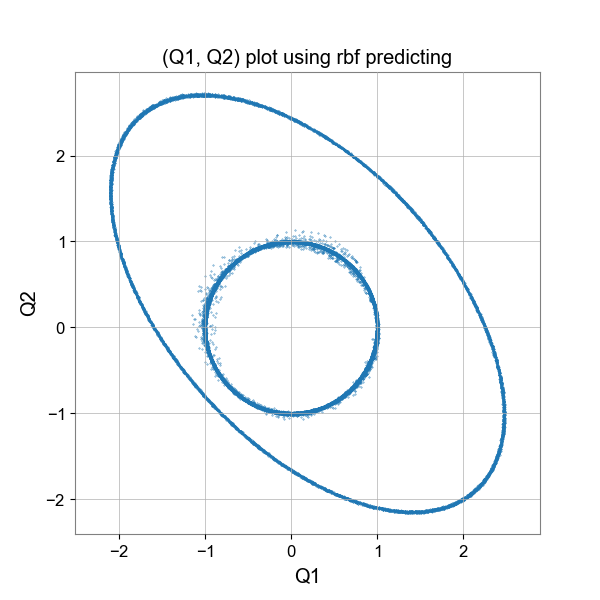
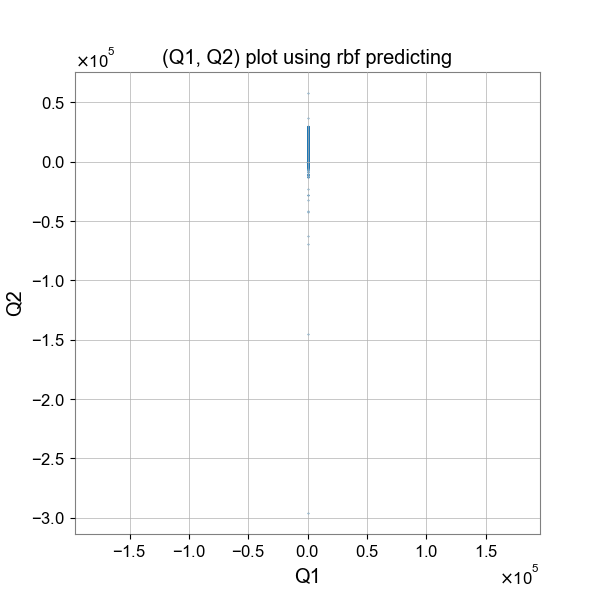
Massive (working) update on the predict parameters file
Made the window size adjustable, as well as the amount of data points ('block size') that are being used for the plot. I also improved the aesthetics of the plot a bit, and I made reduced the running time by a tiny amount.

diff --git a/Data_Analysis_Part_2/predict_parameters_rbf.py b/Data_Analysis_Part_2/predict_parameters_rbf.py
@@ -14,6 +14,12 @@ from ellipse_parameters import *
 
 # importing the HoQI data, and the Q1 and Q2 lists
 HoQIs, Q1, Q2 = np.load("Data_Analysis_Part_1\HoQI_fitted_six_vct_list.npy"), np.load("Data_Analysis_Part_1\\3xQ1.npy"), np.load("Data_Analysis_Part_1\\3xQ2.npy")
+block_size = 100000 # the amount of data points being used for the plot
+HoQIs_block, Q1_block, Q2_block = HoQIs[0:block_size], Q1[0:block_size], Q2[0:block_size]
+
+# window_size = 500 # use for 1x and 2x
+window_size = 210 # use for 3x
+# window_size = 250 # use for 1z, 2z and 3z
 
 # the transformation matrix for HoQI 1x
 matrix_1x = np.array([
@@ -51,42 +57,54 @@ def orthogonal_position_and_parameter(HoQIs, matrix, param):
     return np.hstack((vectors, param[:, None]))
 
 chunk_size = 10000
-n_chunks = len(Q1) / chunk_size 
+n_chunks = block_size / chunk_size 
 lag = 0
+
+Q1_chunk_0 = []
+Q2_chunk_0 = []
 
 # introducing our transformed Q lists
 Q1_transformed_list = []
 Q2_transformed_list = []
 
 # we are going to make a separate rbf function for each chunk, for each individual ellipse parameter
-rbf_x0_list, rbf_y0_list, rbf_a_list, rbf_b_list, rbf_theta_list = [], [], [], [], []
+# rbf_x0_list, rbf_y0_list, rbf_a_list, rbf_b_list, rbf_theta_list = [], [], [], [], []
 
 for i in range(int(n_chunks)): # for loop for each chunk individually
-    # t0 = time.time()
+    t0 = time.time()
 
     # the start and end of each chunk (the start is included; the end is not)
     start, end = i * chunk_size + lag, (i + 1) * chunk_size + lag
 
     # lag = 0, dus voor de window 0 t/m 99 gebruiken we tijdstip 0, dus eindigt een chunk bij tijdstip (chunk_size - window_size + 1) ipv (chunk_size) --> gooi de laatste (window_size - 1) termen weg
-    HoQIs_chunk = HoQIs[start:end-99]
+    HoQIs_chunk = HoQIs_block[start:end-(window_size - 1)]
 
     # berekent voor elke HoQI-vector de positie in het orthogonale vlak (in de huidige chunk)
     orthogonal_position = HoQIs_chunk @ matrix_3x.T
 
     # the transformation of the previous Q1 and Q2:
-    if i > 0: # i > 0, omdat er voor de eerste chunk nog geen vorige chunk is, dus nog geen rbf op basis waarvan de parameters voorspeld kunnen worden
-        x0_predicted = rbf_x0_list[i-1](orthogonal_position)
-        y0_predicted = rbf_y0_list[i-1](orthogonal_position)
-        a_predicted = rbf_a_list[i-1](orthogonal_position)
-        b_predicted = rbf_b_list[i-1](orthogonal_position)
-        theta_predicted = rbf_theta_list[i-1](orthogonal_position)
+    if i > 0: # i > 0, omdat er voor de eerste ('nulde') chunk nog geen vorige chunk is, dus nog geen rbf op basis waarvan de parameters voorspeld kunnen worden
+        x0_predicted = rbf_x0(orthogonal_position)
+        y0_predicted = rbf_y0(orthogonal_position)
+        a_predicted = rbf_a(orthogonal_position)
+        b_predicted = rbf_b(orthogonal_position)
+        theta_predicted = rbf_theta(orthogonal_position)
+
+        # x0_predicted = rbf_x0_list[i-1](orthogonal_position)
+        # y0_predicted = rbf_y0_list[i-1](orthogonal_position)
+        # a_predicted = rbf_a_list[i-1](orthogonal_position)
+        # b_predicted = rbf_b_list[i-1](orthogonal_position)
+        # theta_predicted = rbf_theta_list[i-1](orthogonal_position)
 
         # transforming time
-        Q1_centered = Q1[start:end-99] - x0_predicted
-        Q2_centered = Q2[start:end-99] - y0_predicted
+        Q1_centered = Q1_block[start:end-(window_size - 1)] - x0_predicted
+        Q2_centered = Q2_block[start:end-(window_size - 1)] - y0_predicted
 
         Q1_t = (np.cos(theta_predicted) * Q1_centered + np.sin(theta_predicted) * Q2_centered) / a_predicted
         Q2_t = (-np.sin(theta_predicted) * Q1_centered + np.cos(theta_predicted) * Q2_centered) / b_predicted
+
+        Q1_transformed_list.append(Q1_t)
+        Q2_transformed_list.append(Q2_t)
 
         # print the range in which the predicted parameters values fall
         # print(f"a_predicted range: {a_predicted.min():.3f} - {a_predicted.max():.3f}")
@@ -95,18 +113,18 @@ for i in range(int(n_chunks)): # for loop for each chunk individually
         # print(f"y0_predicted range: {y0_predicted.min():.3f} - {y0_predicted.max():.3f}")
         # print(f"theta_predicted range: {theta_predicted.min():.3f} - {theta_predicted.max():.3f}")
     else: # for chunk 0 (this causes the ellipse in the plot)
-        Q1_t = Q1[start:end-99]
-        Q2_t = Q2[start:end-99]
+        Q1_nt = Q1_block[start:end-(window_size - 1)]
+        Q2_nt = Q2_block[start:end-(window_size - 1)]
 
-    Q1_transformed_list.append(Q1_t)
-    Q2_transformed_list.append(Q2_t)
-
-    # t1 = time.time()
+        Q1_chunk_0.append(Q1_nt)
+        Q2_chunk_0.append(Q2_nt)
+ 
+    t1 = time.time()
 
     # for each window of the relevant chunk, the five ellipse parameters are calculated, which results in a (chunk_size - window_size + 1)x5 matrix
-    params = parameters_timeseries(Q1[start:end], Q2[start:end], window_size=100, step_size=1)
+    params = parameters_timeseries(Q1_block[start:end], Q2_block[start:end], window_size=window_size, step_size=1)
 
-    # t2 = time.time()
+    t2 = time.time()
 
     # elke ellipsparameter correspondeert met een bepaalde kolom uit 'params'
     x0, y0, a, b, theta = params[:,0], params[:,1], params[:,2], params[:,3], params[:,4]
@@ -116,7 +134,7 @@ for i in range(int(n_chunks)): # for loop for each chunk individually
     # define a 'bad point', and print the corresponding amount
     # print(f"amount of bad points (a): {(a > 5).sum()} van {len(a)}")
 
-    # !!! A LINEAR KERNEL REALLY DOES. NOT. WORK.
+    # thin plate spline kernel for an optimal fit 
     # neighbors: rbf only uses the closest 100 points in the orthogonal plane to predict the corresponding value of the assosoiated ellipse parameter; this in order to reduce running time
     # an rbf (interpolating function) is trained for each individual ellipse parameter
     rbf_x0 = RBFInterpolator(orthogonal_position, x0, kernel="thin_plate_spline", smoothing=0.1, neighbors=100)
@@ -126,31 +144,36 @@ for i in range(int(n_chunks)): # for loop for each chunk individually
     rbf_theta = RBFInterpolator(orthogonal_position, theta, kernel="thin_plate_spline", smoothing=0.1, neighbors=100)
 
     # the rbf is added to the associated list of rbf's, so that each chunk can be transformed with its own (or better said: the previous) chunk
-    rbf_x0_list.append(rbf_x0)
-    rbf_y0_list.append(rbf_y0)
-    rbf_a_list.append(rbf_a)
-    rbf_b_list.append(rbf_b)
-    rbf_theta_list.append(rbf_theta)
+    # rbf_x0_list.append(rbf_x0)
+    # rbf_y0_list.append(rbf_y0)
+    # rbf_a_list.append(rbf_a)
+    # rbf_b_list.append(rbf_b)
+    # rbf_theta_list.append(rbf_theta)
 
-    # t3 = time.time()
+    t3 = time.time()
 
-    # print(f"Chunk {i}: overig={t1-t0:.2f}s; parameters_timeseries={t2-t1:.2f}s; RBF={t3-t2:.2f}s.")
+    print(f"Chunk {i}: other={t1-t0:.2f}s; parameters_timeseries={t2-t1:.2f}s; RBF={t3-t2:.2f}s.")
 
     # if i == 3:
     #     break
 
 # arrays --> lists
-Q1_plot = np.concatenate(Q1_transformed_list)
-Q2_plot = np.concatenate(Q2_transformed_list)
+Q1_nt_plot = np.concatenate(Q1_chunk_0)
+Q2_nt_plot = np.concatenate(Q2_chunk_0)
+
+Q1_t_plot = np.concatenate(Q1_transformed_list)
+Q2_t_plot = np.concatenate(Q2_transformed_list)
 
 # the plot
 plt.figure(figsize=(6, 6))
-plt.scatter(Q1_plot, Q2_plot, s=0.1)
+plt.scatter(Q1_nt_plot, Q2_nt_plot, s=0.1, color='red', label='non-transformed')
+plt.scatter(Q1_t_plot, Q2_t_plot, s=0.1, color='green', label='transformed')
 plt.xlim(-2.5, 2.5)
 plt.ylim(-2.5, 2.5)
 plt.xlabel('Q1')
 plt.ylabel('Q2')
 plt.axis('equal')
+plt.legend(fontsize=8, loc= 'upper right')
 plt.title('(Q1, Q2) plot using rbf predicting')
-plt.savefig("Q1_Q2_RDF_Predicted.png")
+plt.savefig("Q1_Q2_RDF_Predicted_1.png")
 plt.show()
